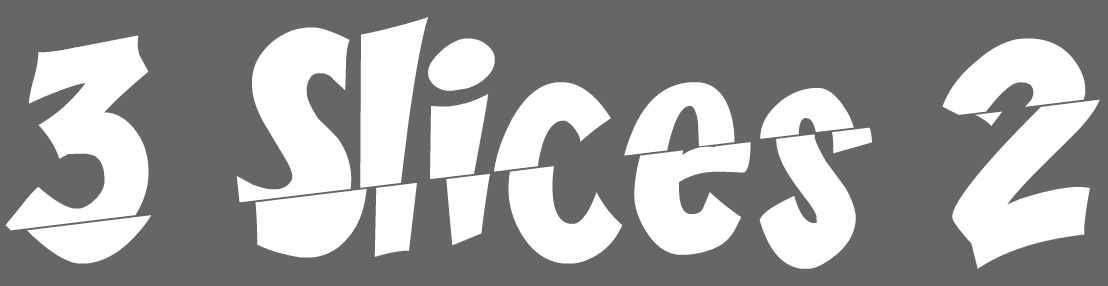
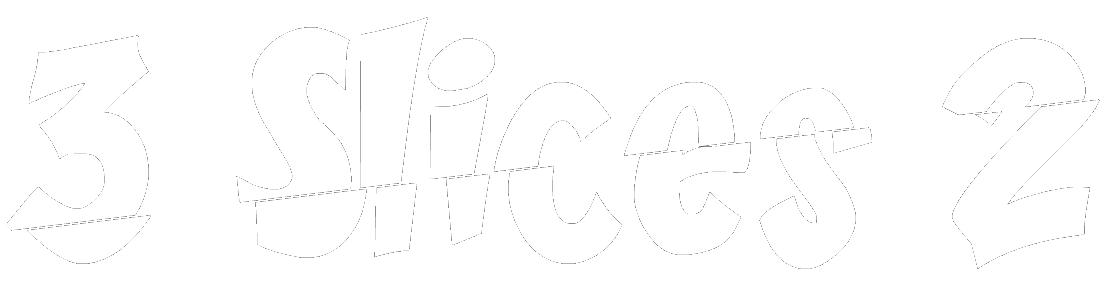
update

diff --git a/js/game.js b/js/game.js
@@ -2,6 +2,13 @@ let game;
 let levelData = [];
 let polygon;
 let polygons = [];
+let startGame = false;
+let lvlButtons = [];
+let alreadyShowingMenu = false;
+let levelMarkerData = [];
+var titleShadow;
+var title;
+
 window.onload = function () {
   let gameConfig = {
     type: Phaser.AUTO,
@@ -33,22 +40,47 @@ class playGame extends Phaser.Scene {
 
   preload() {
     this.load.json('levelData', 'assets/map.json');
+    this.load.image('do_over', 'assets/images/do_over.png');
+    this.load.image('go_back', 'assets/images/go_back.png');
+    this.load.image('level_marker', 'assets/images/level_marker.png');
+    this.load.image('play_button', 'assets/images/play_button.png');
+    this.load.image('title', 'assets/images/title.png');
   }
 
   create() {
-
+    this.cameras.main.setBackgroundColor(0x666666);
     let data = this.cache.json.get('levelData').levels;
-    for (let index = 0; index < data.length; index++) {
+    for (let index = 0; index < 1; index++) {
       var level = {
         level: index + 1,
-        scoreTargets: data[index][0],
-        type: data[index][5],
-        polygons: data[index][11]
+        scoreTargets: [],
+        polygons: []
       }
-      console.log(level);
+      for (var i = 0; i < 4; i++) {
+        level.scoreTargets.push(data[index][i]);
+      }
+
+      for (var i = 4; i < data[index].length; i++) {
+        var poly = {
+          startX: data[index][i][0],
+          startY: data[index][i][1],
+          endX: data[index][i][2],
+          endY: data[index][i][3],
+          offset: data[index][i][4],
+          dynamic: data[index][i][5],
+          type: data[index][i][6],
+          anchorX: data[index][i][7],
+          anchorY: data[index][i][8],
+          anchorZ: data[index][i][9],
+          color: data[index][i][10],
+          coordinates: data[index][i][11],
+        }
+        level.polygons.push(poly);
+      }
+      //  console.log(level);
       levelData.push(level);
     }
-    //      console.log(data[i]);
+    //console.log(levelData);
 
     return;
     this.matter.world.update30Hz();
@@ -110,4 +142,52 @@ class playGame extends Phaser.Scene {
       });
     }.bind(this))
   }
+
+  update() {
+    if (!startGame) {
+      this.showMenu();
+      this.showUnlockedLevels();
+      return;
+    }
+    //console.log(title);
+    //this.titleShadow.visible = false;
+    //this.title.visible = false;
+  }
+
+  levelSelected(x, y) {
+    //console.log(x, y);
+    if (x == 1 && y == 1)
+      startGame = true;
+  }
+
+  showUnlockedLevels() {
+
+  }
+
+  showMenu() {
+    if (alreadyShowingMenu)
+      return;
+    titleShadow = this.add.image(325, 85, 'title').setScale(.5).setOrigin(0.5, 0.5).tint = 0x00;
+    title = this.add.image(320, 80, 'title').setScale(.5).setOrigin(0.5, 0.5);
+    for (let y = 1; y < 4; y++) {
+      for (let x = 1; x < 5; x++) {
+        const lvlButton = this.add.image(x * 125, y * 100 + 110, 'level_marker')
+          .setScale(.5)
+          .setOrigin(0.5, 0.5)
+          .setInteractive()
+          .on('pointerdown', () => this.levelSelected(x, y));
+        lvlButtons.push(lvlButton);
+        var levelMarker = {
+          levelX: x,
+          levelY: y,
+          unlocked: false,
+          percent: 0,
+        }
+        levelMarkerData.push(levelMarker);
+      }
+    }
+    // console.log(levelMarkerData);
+    alreadyShowingMenu = true;
+  }
+
 };
